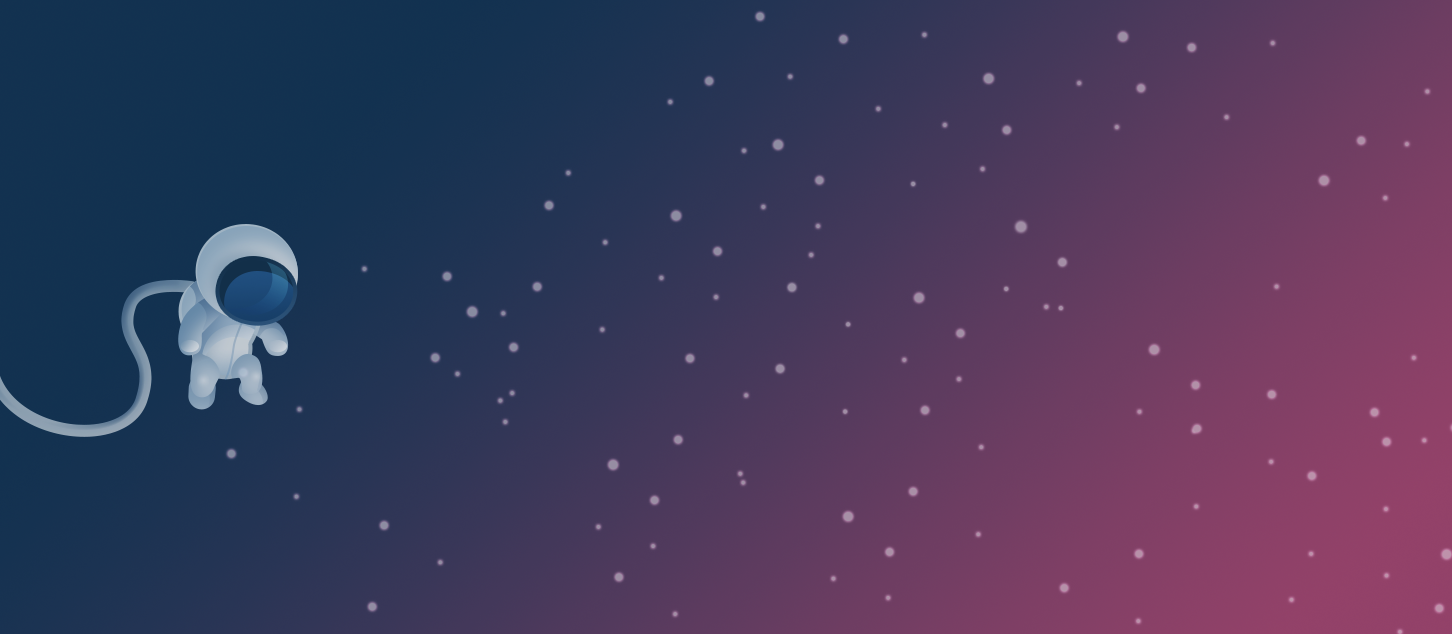
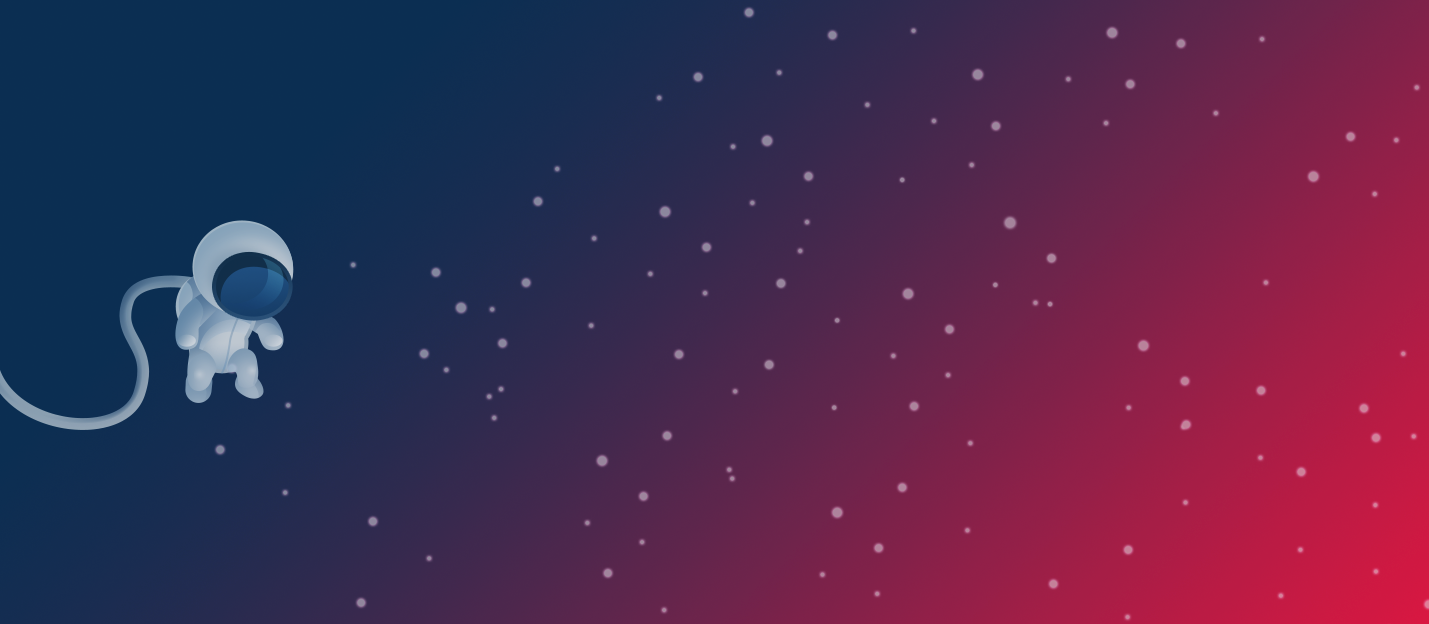
desktop new style

diff --git a/static/style.css b/static/style.css
@@ -445,7 +445,7 @@ to {background-position: -200% 0;}
     float: right;
     width: 6px;
     height: 6px;
-    background-color: #ee4c53;
+    background-color: @redHorbito;
     margin-right: 10px;
     border-radius: 50%;
     margin-top: 11px;
@@ -3334,7 +3334,7 @@ to {background-position: -200% 0;}
 
     position: absolute;
     top: 124px;
-    font-size: 33px;
+    font-size: 55px;
     color: #fff;
     text-align: center;
     width: 100%;
@@ -3350,7 +3350,7 @@ to {background-position: -200% 0;}
     width: 474px;
   	height: 50px;
   	border-radius: 6px;
-  	background-color: rgba(0,0,0,0.3);
+  	background-color: #fff;
     position: relative;
     top: 209px;
     margin: 0 auto;
@@ -3371,7 +3371,7 @@ to {background-position: -200% 0;}
 
     float: left;
     background-image: url('@static/sprite-lupa-explore.png');
-    background-size: 41px 20px;
+    background-size: 20px 20px;
     width: 20px;
     height: 20px;
     margin-left: 22px;
@@ -3379,7 +3379,6 @@ to {background-position: -200% 0;}
     background-position: 20px 0;
     opacity: 0.7;
     transition: all 0.2s ease;
-
   }
 
   .search-bar.popup figure{
@@ -3401,7 +3400,7 @@ to {background-position: -200% 0;}
     width: 390px;
     margin-top: 15px;
     margin-left: 20px;
-    color: #fff;
+    color: #717171;
     font-size: 19px;
 
   }
@@ -4237,28 +4236,29 @@ to {background-position: -200% 0;}
     position: absolute;
     left: ~'calc((50% - 135px) + 142px)';
     top: 383px;
-    width: 174px;
-    height: 47px;
-    border-radius: 23px 23px 24px 24px;
-    background-color: #e85c5c;
+    width: 170px;
+    height: 43px;
+    border-radius: 6px;
+    background-color: transparent;
     margin-top: 30px;
     margin-bottom: 50px;
-    opacity: 0;
+    opacity: 0.5;
     transform: translateY(20px);
     transition: all 0.2s ease;
     cursor: pointer;
+    border: 2px solid #252525
 
   }
 
   .delete-world-button:hover{
 
-    background-color: #e25353;
+    opacity: 1 !important;
 
   }
 
   .delete-world-button:active{
 
-    background-color: #d84f4f;
+    opacity: 1 !important;
 
   }
 
@@ -4268,10 +4268,9 @@ to {background-position: -200% 0;}
     width: 100%;
     text-align: center;
     font-size: 19px;
-    color: #fff;
-    margin-top: 14px;
+    color: #252525;
+    margin-top: 12px;
     cursor: pointer;
-
   }
 
 }

diff --git a/static/ui.js b/static/ui.js
@@ -1192,10 +1192,17 @@ var newWorldAnimationA = function(){
   }, 300);
 
   // Fade in and goes up button (animation)
-  $( '.create-world-button, .delete-world-button' ).stop().clearQueue().transition({
+  $( '.create-world-button' ).stop().clearQueue().transition({
 
     delay       : 250,
     'opacity'   : 1,
+    'transform' : 'translateY(0px)'
+
+  }, 300);
+  $( '.delete-world-button' ).stop().clearQueue().transition({
+
+    delay       : 250,
+    'opacity'   : 0.5,
     'transform' : 'translateY(0px)'
 
   }, 300);
@@ -1303,10 +1310,17 @@ var newWorldAnimationBNormal = function(){
   }, 1000);
 
   // Fade in and goes up privacy (animation)
-  $( '.create-world-button, .delete-world-button' ).transition({
+  $( '.create-world-button' ).transition({
 
     delay       : 950,
     'opacity'   : 1,
+    'transform' : 'translateY(0px)'
+
+  }, 1000);
+  $( '.delete-world-button' ).transition({
+
+    delay       : 950,
+    'opacity'   : 0.5,
     'transform' : 'translateY(0px)'
 
   }, 1000);
@@ -1374,10 +1388,17 @@ var newWorldAnimationBEditing = function(){
 
   // Fade in and goes up privacy (animation)
   $( '.create-world-button, .delete-world-button' ).css( 'transform' , 'translateY(158px)' );
-  $( '.create-world-button, .delete-world-button' ).transition({
+  $( '.create-world-button' ).transition({
 
     delay       : 900,
     'opacity'   : 1,
+    'transform' : 'translateY(120px)'
+
+  }, 1000);
+  $( '.delete-world-button' ).transition({
+
+    delay       : 900,
+    'opacity'   : 0.5,
     'transform' : 'translateY(120px)'
 
   }, 1000);
